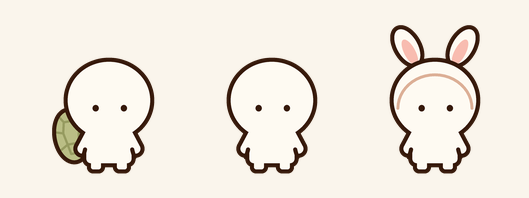
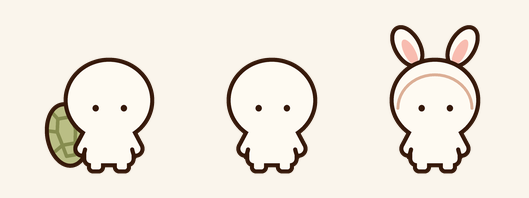
亀モードの甲羅を「甲羅大きめ＋模様強調」にする（2026-10-17 ユーザー決定。spec §88.4）
比較画像「亀モード 甲羅比較案」の右端で正式決定（画像は docs/design-reference/characters/official-3modes/ に保存）。甲羅は原画の「立つ」の縦横比と傾きを保って約 1.18 倍（23.5×38 → 27.6×44.7、中心 13.0,66.8）にし、左の脇から見える位置のまま左へ広げた。模様の線を輪郭の 0.55 倍 → 0.85 倍に太くし、色を #969B60 → #868C4F に濃くした（塗りはそのまま）。36pt で左へ約 6.3pt はみ出し、高さ約 19pt（どれも仮の値。最終は実機）。
テスト・比較画像の道具と比較画像・spec・記録・design-notes・参考画像の説明を合わせた。ビルドはまだ。

Changed region(s): [[0.0605, 0.5152, 0.1512, 0.8485]]

diff --git a/TimyCueTests/CharacterModeTests.swift b/TimyCueTests/CharacterModeTests.swift
@@ -72,10 +72,13 @@ final class CharacterModeTests: XCTestCase {
         XCTAssertLessThan(shellBounds.minX, pose.bounds.minX, "甲羅は本体の左の外へはみ出す")
         XCTAssertLessThan(shellBounds.maxX, pose.head.center.x, "甲羅は本体の右へは出ない")
         XCTAssertLessThan(shell.shape.rotation, 0, "上が少し外（左）へ傾く")
-        // 形・大きさ・傾きの大きさは原画の「立つ」を測った値のまま（側だけを、本体の中心で左右に入れ替えた）
-        XCTAssertEqual(shell.shape.size, CGSize(width: 23.5, height: 38))
-        XCTAssertEqual(abs(shell.shape.rotation), 10, accuracy: 0.001)
-        XCTAssertEqual(shell.shape.center.x + 74.0, pose.head.center.x * 2, accuracy: 0.001, "「立つ」の位置（x = 74.0）の左右反転")
+        // 「甲羅大きめ＋模様強調」（2026-10-17 正式決定）：原画の「立つ」を測った形（23.5×38・傾き 10°）の縦横比と傾きを保って大きくする
+        let measured = CGSize(width: 23.5, height: 38)
+        XCTAssertEqual(shell.shape.size.width / shell.shape.size.height, measured.width / measured.height, accuracy: 0.01,
+                       "甲羅の形（縦横比）は原画のまま")
+        XCTAssertEqual(abs(shell.shape.rotation), 10, accuracy: 0.001, "傾きの大きさは原画のまま")
+        XCTAssertGreaterThan(shell.shape.size.height, measured.height * 1.1, "原画の「立つ」より大きめ")
+        XCTAssertGreaterThan(CharacterMetrics.shellPatternRatio, 0.55, "模様の線は原画より太い（模様強調）")
         XCTAssertGreaterThan(shellBounds.minY, pose.bounds.minY, "甲羅は頭のてっぺんより下")
         XCTAssertLessThanOrEqual(shellBounds.maxY, pose.bounds.maxY, "甲羅は足元より下へ出ない")
         // 模様の線は甲羅の中（甲羅の外へは描かない。描くときも甲羅の形で切る）
@@ -92,12 +95,14 @@ final class CharacterModeTests: XCTestCase {
             XCTAssertEqual(mode.gear.contains(.shell), mode == .turtle, "甲羅は亀モードだけ（\(mode.title)）")
         }
         XCTAssertTrue(OfficialCharacter.gear.bounds(for: CharacterMode.human.gear).isNull, "人型モードは装備の領域なし")
-        // 36pt（Home の第一の候補）でも甲羅の形が分かる大きさ（はみ出す幅 約 3.9pt・甲羅の高さ 約 16pt。目安は仮）
+        // 36pt（Home の第一の候補）でも亀に見える大きさ（「甲羅大きめ＋模様強調」。はみ出す幅 約 6.3pt・甲羅の高さ 約 19pt。目安は仮）
         let pose = CharacterPose.officialStanding
         let scale = 36 / OfficialCharacter.referenceHeight
         let shellBounds = CharacterPose.ellipseBounds(OfficialCharacter.gear.shell.shape)
-        XCTAssertGreaterThanOrEqual((pose.bounds.minX - shellBounds.minX) * scale, 3, "本体の外へはみ出す幅")
-        XCTAssertGreaterThanOrEqual(OfficialCharacter.gear.shell.shape.size.height * scale, 15, "甲羅の高さ")
+        XCTAssertGreaterThanOrEqual((pose.bounds.minX - shellBounds.minX) * scale, 5, "本体の外へはみ出す幅")
+        XCTAssertGreaterThanOrEqual(OfficialCharacter.gear.shell.shape.size.height * scale, 18, "甲羅の高さ")
+        XCTAssertGreaterThanOrEqual(CharacterLayout(height: 36, mode: .turtle).outlineWidth * CharacterMetrics.shellPatternRatio, 1,
+                                    "模様の線は 36pt でも 1pt 以上")
     }
 
     func testRabbitHoodEarsStandAboveTheHead() {

diff --git a/TimyCue/Features/Character/CharacterPose+Official.swift b/TimyCue/Features/Character/CharacterPose+Official.swift
@@ -36,12 +36,14 @@ extension CharacterPose {
 
 extension CharacterGearSet {
     /// 正式キャラクター 3 モードの装備。原画の亀「立つ」・うさぎ（3 モードの見出しの絵と「立つ」）を測り、本体の頭に合わせて置いた値。
-    /// 甲羅の形・大きさ・傾きの大きさは「立つ」を測った値のまま。側だけは、主な絵・モード切り替えの絵・Home の絵に合わせて
-    /// 見る人から見て左（「立つ」は右に描かれているので、本体の中心 x = 45.25 で左右を入れ替えた。2026-10-17。spec §88.4）
+    /// 甲羅の側は、主な絵・モード切り替えの絵・Home の絵に合わせて見る人から見て左（「立つ」は右に描かれている。2026-10-17。spec §88.4）。
+    /// 大きさは「甲羅大きめ＋模様強調」（2026-10-17 正式決定。docs/design-reference/characters/official-3modes/shell-comparison-2026-10-17.webp）：
+    /// 「立つ」を測った形（23.5×38・傾き 10°）の縦横比と傾きを保って約 1.18 倍にし、比較画像の「現状」→「大きめ＋模様強調」と
+    /// 同じだけ、左へ（約 6 単位）・上へ（約 4 単位）・下へ（約 2.6 単位）広げた。本体の後ろにつながったまま
     static let official = CharacterGearSet(
         // 甲羅：背中に背負い、見る人から見て左の脇からはみ出す。上が少し外（左）へ傾いた楕円（右の部分は本体に隠れる）
         shell: ShellGear(
-            shape: CharacterPose.Part(center: CGPoint(x: 16.5, y: 67.5), size: CGSize(width: 23.5, height: 38), rotation: -10),
+            shape: CharacterPose.Part(center: CGPoint(x: 13.0, y: 66.8), size: CGSize(width: 27.6, height: 44.7), rotation: -10),
             pattern: [
                 // 真ん中の甲板（六角形）
                 [CGPoint(x: -0.18, y: -0.30), CGPoint(x: 0.18, y: -0.30), CGPoint(x: 0.26, y: -0.08), CGPoint(x: 0.18, y: 0.16),

diff --git a/TimyCue/DesignSystem/CharacterMetrics.swift b/TimyCue/DesignSystem/CharacterMetrics.swift
@@ -20,8 +20,9 @@ enum CharacterMetrics {
         min(max(height * ratio, outlineMin), outlineMax)
     }
 
-    /// 甲羅の模様の線・フードの顔まわりの線の太さ（輪郭の太さに対する割合。原画を測った値）
-    static let shellPatternRatio: CGFloat = 0.55
+    /// 甲羅の模様の線・フードの顔まわりの線の太さ（輪郭の太さに対する割合。フードは原画を測った値）。
+    /// 甲羅の模様は「甲羅大きめ＋模様強調」（2026-10-17 正式決定）で、原画の 0.55 から太くした（36pt で約 1.2pt。仮の値）
+    static let shellPatternRatio: CGFloat = 0.85
     static let hoodLineRatio: CGFloat = 0.7
 }
 
@@ -40,7 +41,7 @@ struct CharacterPalette: Equatable {
 
 /// 装備の色（正式キャラクター 3 モードの原画を測った値。spec §88.4）
 struct CharacterGearPalette: Equatable {
-    /// 甲羅：やわらかい黄緑と、甲板の境目の少し濃い緑
+    /// 甲羅：やわらかい黄緑と、甲板の境目の濃い緑（境目は「模様強調」で原画の #969B60 より濃くした。2026-10-17。仮の値）
     var shellFill: Color
     var shellLine: Color
     /// うさぎの耳の内側のピンク
@@ -48,6 +49,6 @@ struct CharacterGearPalette: Equatable {
     /// フードの顔まわりの線（輪郭より淡いブラウン）
     var hoodLine: Color
 
-    static let official = CharacterGearPalette(shellFill: Color(hex: 0xBABE85), shellLine: Color(hex: 0x969B60),
+    static let official = CharacterGearPalette(shellFill: Color(hex: 0xBABE85), shellLine: Color(hex: 0x868C4F),
                                                earInner: Color(hex: 0xF8BCB0), hoodLine: Color(hex: 0xDCAF96))
 }

diff --git a/TimyCue/Features/DevTools/CharacterModeComparisonView.swift b/TimyCue/Features/DevTools/CharacterModeComparisonView.swift
@@ -39,7 +39,7 @@ final class CharacterModeComparisonStore {
         return store
     }
 
-    /// 「本体 36pt・甲羅を含めた領域 幅34×高さ39pt（輪郭の線を含む）」の文
+    /// 「本体 36pt・甲羅を含めた領域 幅37×高さ39pt（輪郭の線を含む）」の文
     static func areaText(height: CGFloat, mode: CharacterMode) -> String {
         let layout = CharacterLayout(height: height, mode: mode)
         let width = Int(layout.size.width.rounded())

diff --git a/tools/character_3modes/shapes.py b/tools/character_3modes/shapes.py
@@ -74,9 +74,10 @@ EYES = [(35.0, 46.1), (56.8, 46.1)]
 EYE_SIZE = (4.9, 5.1)
 ARM_LINES = [((26.8, 78.0), (26.1, 81.0), (25.0, 84.0)), ((63.2, 78.0), (63.9, 81.0), (65.0, 84.0))]
 OUTLINE_RATIO = 0.0385       # 本体の全身の高さに対する輪郭の太さ
-# 甲羅は見る人から見て左（2026-10-16 決定・2026-10-17 確認。spec §88.4）。形・大きさは原画の亀「立つ」を測った値で、
-# 「立つ」は右に描かれているので、本体の中心 x = 45.25 で左右を入れ替えた（「立つ」の位置は cx=74.0・rot=10）
-SHELL = dict(cx=16.5, cy=67.5, w=23.5, h=38, rot=-10)
+# 甲羅は見る人から見て左（2026-10-16 決定・2026-10-17 確認。spec §88.4）。大きさは「甲羅大きめ＋模様強調」（2026-10-17 正式決定）：
+# 原画の亀「立つ」を測った形（23.5×38・傾き 10°。「立つ」では右の cx=74.0）の縦横比と傾きを保って約 1.18 倍にし、左へ広げた
+SHELL = dict(cx=13.0, cy=66.8, w=27.6, h=44.7, rot=-10)
+SHELL_PATTERN_RATIO = 0.85   # 模様の線の太さ（輪郭に対する割合。原画は 0.55。模様強調で太くした）
 SHELL_PATTERN = [
     [(-0.18, -0.30), (0.18, -0.30), (0.26, -0.08), (0.18, 0.16), (-0.18, 0.16), (-0.26, -0.08), (-0.18, -0.30)],
     [(-0.18, 0.16), (-0.12, 0.36), (0.12, 0.36), (0.18, 0.16)],
@@ -91,7 +92,7 @@ FACE_OPENING = dict(cx=45.25, cy=46.2, w=57.2, h=51.8)
 OUTLINE = (0x36, 0x19, 0x0A)
 FILL = (0xFE, 0xFA, 0xF2)
 SHELL_FILL = (0xBA, 0xBE, 0x85)
-SHELL_LINE = (0x96, 0x9B, 0x60)
+SHELL_LINE = (0x86, 0x8C, 0x4F)   # 模様強調で原画の #969B60 より濃くした
 EAR_INNER = (0xF8, 0xBC, 0xB0)
 HOOD_LINE = (0xDC, 0xAF, 0x96)
 MODE_GEAR = {"turtle": {"shell"}, "human": set(), "rabbit": {"hood"}}
@@ -149,7 +150,7 @@ def render(mode, box=(0, -22, 95, 100), px_per_unit=2.0, S=8):
         sm = ellipse(X, Y, SHELL["cx"], SHELL["cy"], SHELL["w"], SHELL["h"], SHELL["rot"])
         outlined(sm, SHELL_FILL)
         for line in _shell_lines():
-            paint(_segments(X, Y, line, ow * 0.55) & sm, SHELL_LINE)
+            paint(_segments(X, Y, line, ow * SHELL_PATTERN_RATIO) & sm, SHELL_LINE)
     if "hood" in gear:
         for e, i in zip(EARS, EAR_INNERS):
             outlined(ellipse(X, Y, e["cx"], e["cy"], e["w"], e["h"], e["rot"]))

diff --git a/docs/design-notes.md b/docs/design-notes.md
@@ -98,10 +98,11 @@
 | 2026-10-16 | ホーム・人型キャラクター（3 モードの状態の設計。Q89・Q90） | 見た目のモードと、時間帯ごとの動作・移動の状態を分ける | 見た目（第一の候補）：出発 61 分以上前＝亀、60〜31 分前＝人型、30 分前〜出発時刻＝うさぎ（耳の被り物は必ず）。動作（§88.7。原則このまま）：60〜31 分＝落ち着いた日常の動作、30〜16 分＝準備を始める、15〜6 分＝出発準備、5〜1 分＝少し機敏に（うさぎになっただけで強く焦らせない）。ふつうと違う状態：場所なしの予定は開始までの時間で切り替え、出発時刻を過ぎて案内が続く間はうさぎのまま、移動開始を確かめたら人型に戻し、移動中は人型＋移動手段の動作、到着のあとは人型＋待つ動作、予定がないときは亀。移動中・到着のあとの動きは H5。見た目・行動・移動の状態は分けて持つ（spec §88.4・§88.7） | 実機で | 文書に入れた（H3・H5 の実装はまだ） |
 | 2026-10-16 | ホーム（H2 の画面見本。実装前の整合性確認） | 6 つの状態のワイヤーフレーム（docs/design-reference/h2-wireframes/） | Home だけ標準のステータスバーなし。Safe Area の上 59pt・Dynamic Island に重ねない。1 行目：左に日付（20pt）、右に電池（アイコン 22×11pt＋「80%」。仮）。時計：外径 40％（画面の幅 393pt で 157pt）、右の余白 30pt、上端 104pt、中の数字 27pt（外径の 17％）、「出発まで」「分」11pt、下に「8:30 → 9:15 出発予定」13pt。人型：本体 36pt、「いま」の直上（足元と「いま」の行のあいだ約 11pt）。過ぎた出発の点は 1 行（13pt）を人型と「いま」のあいだに。予定の行の間：ふだん 44pt、予定が多いとき 34pt。主状態の予定は 2 行の札（高さ 56pt）。「ほか○件」15pt。大きな知らせ 22pt（時計がないときは日付の下に横幅を使って。時計があるときは時計の下側。Q92 で決定）。「終わった予定 ○件」13pt（日付・終日の予定の下、人型より上の左側。Q91 で決定）。大きさ・行の間などの値は仮 | 実機で | 見本を作った（H2 の実装はまだ） |
 | 2026-10-16 | ホーム（H2 の前提作業。Q93・Q94） | 3 モードの止まった姿の再現と、今の時計の実機確認 | 前提作業 1：正式原画の亀・人型・うさぎを止まった姿で SwiftUI に再現し、実機で原画と見比べる（本体 36pt、甲羅・耳の領域も確かめる）。H2 の本実装とは分けて進み具合を管理。前提作業 2（Q94）：今の Home の時計を実機で確かめる。1 分ごとの穏やかな動き（0.45 秒）、針と弧の進み方、60 分前に出る、出発時刻で終わり「出発してください」→ 3 分で「出発時刻を○分過ぎています」、場所なしの「開始まで」と「予定時刻になりました」（約 3 分）、「いま」の文字が 5 分以内・55〜60 分で消える／60 分前の丸のずらし、弧の色が緑 → 黄 → コーラル、40％の中の文字（4 つの表示） | 実機で | これから（Q94 はまだ区切らない） |
-| 2026-10-16 | ホーム（H2 の前提作業 1）・正式キャラクター 3 モード | 立ち姿の再現（`CharacterPose+Official.swift`・`CharacterGear.swift`）。設定 ＞ 開発用：キャラクター 3 モード | 原画の人型「立つ」（`official-3modes/reproduction/stand-human.png`、原画の画素のまま）の輪郭の内側の形に、頭・胴・腕・脚を当てはめた（重なり 約 97％、`tools/character_3modes/fit_body.py`）。単位は切り出しの画素：頭 63.7×59.6（胴とひと続き）、胴 34.9×34.5（足の付け根まで）、腕 7.7×19.7（約 28° 外へ）、脚 7.8×11.8（まっすぐ・足の裏は平ら、あいだに浅い四角い切れ込み）、目 4.9×5.1、腕の内側に短い線。本体の全身の高さ 83.2 → 36pt。輪郭は本体の高さの 3.85％（36pt で約 1.4pt）。色（仮。原画を測った値）：体 #FEFAF2・輪郭と目 #36190A・甲羅 #BABE85／模様 #969B60・耳の内側 #F8BCB0・顔まわりの線 #DCAF96。甲羅（背中に背負い、見る人から見て左の脇からはみ出す。23.5×38・上が外（左）へ 10° 傾き。2026-10-17 に「立つ」の右の位置を本体の中心で左右に入れ替えた。TestFlight 1.0 (24) までは右）と耳の被り物（耳 15.8×29.5・外へ 30°、内側のピンク、顔まわりの線＝額から目の高さまでの弧）は本体とは別の部品。36pt での領域（輪郭の線を含む）：人型 約 30×39pt、亀 約 34×39pt（甲羅で左へ広がる。本体は甲羅の分 約 3.9pt 右）、うさぎ 約 30×50pt（耳で上へ） | 実機で | 対応中（実機確認待ち） |
-| 2026-10-16 | ホーム（H2 の前提作業 1）・原画と違うところ（残る差異） | 再現は前向きの立ち姿 1 つ。原画の「立つ」と違う点 | 亀：原画は顔が少し左を向く（目が左寄り）が、同じ本体を使うので前向き。甲羅の側は、原画の「立つ」（右）と違い、正式の左（2026-10-16 決定・2026-10-17 に直した）。甲羅の下の小さな尾と、甲板の細かな模様は省いた（36pt では約 1pt 以下）。うさぎ：原画の「立つ」は片足を前に出した歩く途中の形だが、立ち姿は人型と同じ本体。耳の位置・傾きは見出しの絵と「立つ」の間をとった。顔まわりの線は滑らかな弧にした（原画は手描きの揺れがある）。全体：原画の手描きの線の揺れ・ぼかし・足元の影は再現しない（影は §88.4 で描かない） | 実機で | 未着手 |
+| 2026-10-16 | ホーム（H2 の前提作業 1）・正式キャラクター 3 モード | 立ち姿の再現（`CharacterPose+Official.swift`・`CharacterGear.swift`）。設定 ＞ 開発用：キャラクター 3 モード | 原画の人型「立つ」（`official-3modes/reproduction/stand-human.png`、原画の画素のまま）の輪郭の内側の形に、頭・胴・腕・脚を当てはめた（重なり 約 97％、`tools/character_3modes/fit_body.py`）。単位は切り出しの画素：頭 63.7×59.6（胴とひと続き）、胴 34.9×34.5（足の付け根まで）、腕 7.7×19.7（約 28° 外へ）、脚 7.8×11.8（まっすぐ・足の裏は平ら、あいだに浅い四角い切れ込み）、目 4.9×5.1、腕の内側に短い線。本体の全身の高さ 83.2 → 36pt。輪郭は本体の高さの 3.85％（36pt で約 1.4pt）。色（仮。原画を測った値）：体 #FEFAF2・輪郭と目 #36190A・甲羅 #BABE85／模様 #969B60・耳の内側 #F8BCB0・顔まわりの線 #DCAF96。甲羅（背中に背負い、見る人から見て左の脇からはみ出す。23.5×38・上が外（左）へ 10° 傾き。2026-10-17 に「大きめ＋模様強調」で 27.6×44.7 へ（下の行）。2026-10-17 に「立つ」の右の位置を本体の中心で左右に入れ替えた。TestFlight 1.0 (24) までは右）と耳の被り物（耳 15.8×29.5・外へ 30°、内側のピンク、顔まわりの線＝額から目の高さまでの弧）は本体とは別の部品。36pt での領域（輪郭の線を含む）：人型 約 30×39pt、亀 約 34×39pt（甲羅で左へ広がる。本体は甲羅の分 約 3.9pt 右）、うさぎ 約 30×50pt（耳で上へ） | 実機で | 対応中（実機確認待ち） |
+| 2026-10-16 | ホーム（H2 の前提作業 1）・原画と違うところ（残る差異） | 再現は前向きの立ち姿 1 つ。原画の「立つ」と違う点 | 亀：原画は顔が少し左を向く（目が左寄り）が、同じ本体を使うので前向き。甲羅の側は、原画の「立つ」（右）と違い、正式の左（2026-10-16 決定・2026-10-17 に直した）。甲羅は原画の「立つ」より約 1.18 倍大きく、模様の線を太く・濃くした（2026-10-17「甲羅大きめ＋模様強調」）。甲羅の下の小さな尾と、甲板の細かな模様は省いた（36pt では約 1pt 以下）。うさぎ：原画の「立つ」は片足を前に出した歩く途中の形だが、立ち姿は人型と同じ本体。耳の位置・傾きは見出しの絵と「立つ」の間をとった。顔まわりの線は滑らかな弧にした（原画は手描きの揺れがある）。全体：原画の手描きの線の揺れ・ぼかし・足元の影は再現しない（影は §88.4 で描かない） | 実機で | 未着手 |
 | 2026-10-16 | ホーム（H2 の前提作業 2）・時計の確かめ | 設定 ＞ 開発用：時計の確かめ（検証用のビルドだけ） | 見本の予定（場所あり：出発 10:00・開始 10:30、場所なし：開始 10:00。どちらも仮）で、表示の時刻を −90〜＋40 分の範囲で動かす（±1・±5 分、自動は 1 秒で 1 分）。時計の大きさは 40％（H2 の第一の候補。中の文字を外径に合わせる）と 74％（今の Home）を切り替えられる。すぐに飛べる時刻（61・60・55・54・31・30・23・15・6・5・1 分前、出発時刻、2・3 分過ぎ、場所なしの 61・23 分前・開始時刻・3 分後）と、中央の文字の 4 種類 | 実機で | 対応中（実機確認待ち） |
-| 2026-10-16 | ホーム（H2 の前提作業 1）・亀モードの甲羅の位置 | 甲羅をどちらの脇に見せるか（spec §88.4） | 正式は見る人から見て左（2026-10-16 決定）。甲羅は背中に背負っている設定で、正面から見ると左側にはみ出す構造（左の脇から見える。2026-10-17 確認）。立つ・座る・歩くなど同じ向きの姿勢では同じ位置。横向き・後ろ向きは体の向きに合わせて自然に。原画の主なポーズの段の「立つ」（右）は例外で、主な絵・モード切り替えの絵・Home の絵を優先。原画でほかに右に描かれた正面向きの姿（主なポーズの「コーヒーを飲む」、表情・仕草の「眠そう」「くつろぐ」）も左に統一（2026-10-17 確認。整合性のため正式仕様では左を優先）。TestFlight 1.0 (24) は右に置いていた。2026-10-17 に左へ直した（形・大きさ・色・傾きの大きさはそのまま。36pt で左へ約 3.9pt はみ出し、高さ約 16pt。この大きさは仮の値で、最終の判断は実機で行う（2026-10-17 ユーザー）。自動テストの目安「はみ出し 3pt 以上・高さ 15pt 以上」も仮） | 実機で | 直した（ビルド確認 #49・TestFlight 1.0 (25)。実機確認待ち） |
+| 2026-10-16 | ホーム（H2 の前提作業 1）・亀モードの甲羅の位置 | 甲羅をどちらの脇に見せるか（spec §88.4） | 正式は見る人から見て左（2026-10-16 決定）。甲羅は背中に背負っている設定で、正面から見ると左側にはみ出す構造（左の脇から見える。2026-10-17 確認）。立つ・座る・歩くなど同じ向きの姿勢では同じ位置。横向き・後ろ向きは体の向きに合わせて自然に。原画の主なポーズの段の「立つ」（右）は例外で、主な絵・モード切り替えの絵・Home の絵を優先。原画でほかに右に描かれた正面向きの姿（主なポーズの「コーヒーを飲む」、表情・仕草の「眠そう」「くつろぐ」）も左に統一（2026-10-17 確認。整合性のため正式仕様では左を優先）。TestFlight 1.0 (24) は右に置いていた。2026-10-17 に左へ直した（形・大きさ・色・傾きの大きさはそのまま。36pt で左へ約 3.9pt はみ出し、高さ約 16pt。この大きさは仮の値で、最終の判断は実機で行う（2026-10-17 ユーザー）。自動テストの目安「はみ出し 3pt 以上・高さ 15pt 以上」も仮。大きさと模様は同じ日に「甲羅大きめ＋模様強調」へ変えた：下の行） | 実機で | 直した（ビルド確認 #49・TestFlight 1.0 (25)。実機確認待ち） |
+| 2026-10-17 | ホーム（H2 の前提作業 1）・亀モードの甲羅の大きさと模様 | 「甲羅大きめ＋模様強調」（比較画像 `official-3modes/shell-comparison-2026-10-17.webp` の右端。spec §88.4） | 甲羅：27.6×44.7（原画の「立つ」の 23.5×38 の縦横比と傾き 10° を保って約 1.18 倍）、中心 (13.0, 66.8)、上が外（左）へ 10° 傾き。比較画像の「現状」→「大きめ＋模様強調」の増え方（左へ約 6・上へ約 4・下へ約 2.6 単位）を 1.0 (25) の甲羅に足した。模様の線：輪郭の 0.85 倍（原画 0.55）、色 #868C4F（原画 #969B60）。塗り #BABE85 はそのまま。36pt：左へ約 6.3pt はみ出し、甲羅の高さ約 19pt、模様の線 約 1.2pt、甲羅を含めた枠 約 37×39pt。比較画像の右端の絵そのものと比べると、甲羅は少し大きい（36pt のはみ出しは絵で約 4.5〜5pt）。どれも仮の値で、最終の判断は実機 | 実機で | 作った（ビルドはまだ） |
 
 ## 将来候補／現在は不採用
 

diff --git a/docs/spec.md b/docs/spec.md
@@ -1254,6 +1254,7 @@ EventKit イベントそのものに、TimyCue 固有情報を無理に全部入
 - デザイン（2026-10-16 確定）：「TimyCue キャラクター 3 モード（うさぎは被り物バージョン）」の原画を、正式なデザインの正本にする（記録の 2026-10-16「新しい正式キャラクター（3 モード）の原画」）。原画は docs/design-reference/characters/official-3modes/ に置いた（受け取った画像そのものと、亀・人型・うさぎの切り出し、各モードの主なポーズの段の切り出し。中身の説明は docs/design-reference/README.md）。これ以上、別のデザインの候補は作らない。この原画を基準に SwiftUI で再現する（H2 の前提作業として、亀・人型・うさぎの止まった姿から。2026-10-16 Q93。§88.10）。
   - 亀モード・人型モード・うさぎモードは、すべて同じキャラクター。甲羅（亀モード）と、うさぎの耳の被り物（フード。うさぎモード）は、着けたり外したりする装備。
   - 甲羅の位置（2026-10-16 決定、2026-10-17 確認）：甲羅は背中に背負っていて、正面から見ると見る人から見て左側にはみ出す構造にする。正面向きの亀モードでは、甲羅を左（左の脇から見える位置）に統一する。立つ・座る・歩くなど、同じ向きの姿勢では同じ位置にする。原画の中の一部に右側の例（主なポーズの段の「立つ」「コーヒーを飲む」、表情・仕草の段の「眠そう」「くつろぐ」）があるが、整合性のため正式仕様では左を優先する（主な絵・モード切り替えの絵・Home の絵と同じ側）。横向き・後ろ向きなどは、体の向きに合わせて自然に置く。
+  - 甲羅の大きさと模様（2026-10-17 決定）：比較画像「亀モード 甲羅比較案（36pt でも亀に見えるかを比較）」の右端「甲羅大きめ＋模様強調」を正式に採用する（docs/design-reference/characters/official-3modes/shell-comparison-2026-10-17.webp）。36pt でも亀に見えるよう、甲羅を前の再現より大きめにし、甲板の模様（境目の線）を太く・濃くして目立たせる。甲羅は背中に背負い、正面向きでは左の脇から見える（上の決まりのまま）。甲羅の形（縦横比・傾き）と塗りの色は原画のまま。大きさ・線の太さ・色の値は実機で確かめる（design-notes）。
   - うさぎモードの間は、被り物の耳を必ず付ける。原画には耳が付いていない姿（急ぎ足・バッグを持つ・走る）もあるが、耳は被り物の一部という設定なので外さない（2026-10-16）。
   - 形・色・比率は原画に合わせる。立つ・座る・コーヒーを飲むなどの姿も、この原画を基準にする。独自のアレンジや、Claude が作った A・B・C 案への置き換えはしない。
   - 画像の中の吹き出し・背景・床の影・音符・動きを表す記号は、キャラクター本体に要るものではない。
@@ -1330,6 +1331,7 @@ EventKit イベントそのものに、TimyCue 固有情報を無理に全部入
 - H2 の前提作業（2026-10-16 Q93）：正式原画（2026-10-16 正式採用の 3 モード）の亀・人型・うさぎを、止まった姿で SwiftUI に再現し、実機で確かめる。H2 の本実装とは分けて進み具合を管理する。H2 の前に、今の時計の実機確認も区切る（Q94）。
   - 2026-10-16 開始の指示（記録の同じ日「H2 の前提作業の開始」）：前提作業 1（3 モードの立ち姿の再現と、開発用の比べる画面「設定 ＞ 開発用：キャラクター 3 モード」）と、前提作業 2（時計の検証画面「設定 ＞ 開発用：時計の確かめ」。表示の時刻を手で進める。検証用のビルドだけ）を、同じ検証用のビルドにまとめて作る。順番は、実装 → 自動テスト → ビルドの確認 → 検証用の TestFlight → ユーザーの実機確認 → 結果に応じた修正と再確認 → H2 の本実装へ移るかの判断。ユーザーの実機確認が終わるまで、デザインの再現は完了と扱わない。H2 の本実装（Home の作り直し）・H3〜H5・App Store の公開・新しいデザインの案は、この作業の外。
   - 甲羅の位置（2026-10-16 決定。§88.4）：TestFlight 1.0 (24) の亀モードは、甲羅を見る人から見て右に置いていた（原画の「立つ」に合わせていた）。正式は左なので、2026-10-17 に直した（記録の 2026-10-17「亀モードの甲羅位置修正・実機確認」）。甲羅を本体の中心で左右に入れ替え、形・大きさ・色・傾きの大きさは変えていない。ビルド確認 #49（自動テスト 301 件すべて成功）のあと、検証用の TestFlight 1.0 (25) に配信した。実機確認はこれから。
+  - 甲羅の大きさと模様（2026-10-17 決定。§88.4）：「甲羅大きめ＋模様強調」に合わせて、コードとテストを直した（記録の 2026-10-17「亀モードの甲羅：大きめ＋模様強調」）。ビルドと実機確認はまだ。
 - H2 Home の骨格：縦のタイムライン・演出帯・現在時刻・今日の予定・次の行動の強調・時計との共存。Home の画面全体は縦にスクロールさせない（§88.2）。配置は 2026-10-16 の最新版（§88.2・§88.3）：左上に日付、右上寄りに時計（外径 40％が第一の候補）、左側の「いま」のすぐ上に人型（36pt が第一の候補）。日付・時計・人型の部分の無駄な余白を減らし、タイムラインの縦の間隔を H1 の比べる画面より広くする。タイムラインの行の動き（§88.2）も H2 で作る。Home だけ標準のステータスバーを出さず、右上にアプリ独自の電池の残量の表示（§88.2）。時計の出現のアニメーションは作らない（H3。Q88）。人型は、前提作業で再現した 3 モードの止まった姿を、時刻に応じて切り替えて出す（Q89・Q90・Q93。切り替えの演出は H3）。今の時計を動かす・小さくする・置き直す前に、今の時計の実機確認を区切る（2026-10-15 の時点では完了扱いにしない。条件付きで区切る：Q94）。Home の背景 #FAF5EC → #FFFBF3 は、時計の確認のあと実機で比べてから変える（H2 の始まりで無条件に変えない）。過ぎた出発の点を残す・畳む状態の移り変わり（§88.2）を自動テストにする。
   - H2 の実機確認で見ること（2026-10-16）：時計と人型のバランス、日付・時計・人型の配置、時計を出したとき・出さないときの予定の見える量、主状態の予定の見やすさ、出発の点と予定開始の点の関係、予定が少ないときの行の間、予定が多いときの「ほか○件」、小さい画面や文字を大きくしたときの表示、画面全体が縦にスクロールしないこと、状態が切り替わるときに予定が不自然に動かないこと。時計の中の文字（「出発まで 60分」「出発まで 23分」「出発まで 1分」「開始まで 23分」。§88.3）も確かめる。
 - H3 動き：日常の動作 3 種・時計の出現 2 種・10 秒の演出とランダムの選び方。3 モードの装備の着け外しの演出（甲羅を外す・フードをかぶる）と、時間帯ごとの動作（§88.7）を、見た目とは分けた状態として作る（2026-10-16 Q89・Q90・Q93。止まった姿での見た目の切り替えは H2）。
@@ -1360,6 +1362,14 @@ EventKit イベントそのものに、TimyCue 固有情報を無理に全部入
 - 2026-10-16 の回答：保留。天気の表示は H2 の作業の外。置き場所は今は決めず、天気の機能を作る前に考える。
 
 ## 決まったことの記録
+
+### 2026-10-17 ユーザー決定「亀モードの甲羅：大きめ＋模様強調」（§88.4・§88.10 に関係）
+
+- 比較画像「亀モード 甲羅比較案（36pt でも亀に見えるかを比較）」の 3 案（現状／甲羅少し大きめ／甲羅大きめ＋模様強調）から、右端の「甲羅大きめ＋模様強調」で正式に決定した。比較画像は docs/design-reference/characters/official-3modes/shell-comparison-2026-10-17.webp に保存した。
+- 甲羅の位置（見る人から見て左。背中に背負い、左の脇から見える）と、正面向きの姿勢で同じ基準にそろえる決まりは変えない。
+- 作りへの反映（Claude）：比較画像の「現状」と「大きめ＋模様強調」の差（本体に合わせて測ると、甲羅が左へ約 6 単位・上へ約 4 単位・下へ約 2.6 単位広がる）を、TestFlight 1.0 (25) の甲羅に足した。原画の「立つ」を測った形（23.5×38・傾き 10°）の縦横比と傾きを保って約 1.18 倍（27.6×44.7）にし、本体の後ろにつながったまま左へ広げた。模様の線は輪郭の 0.55 倍から 0.85 倍に太くし（36pt で約 0.76pt → 約 1.2pt）、色を #969B60 から #868C4F に濃くした。甲羅の塗りの色は変えない。36pt では、甲羅が本体の左の外へ約 6.3pt はみ出し（前は約 3.9pt）、高さは約 19pt（前は約 16pt）。甲羅を含めた枠は約 37×39pt（前は約 34×39pt）。自動テストを合わせた。比較画像（reproduction/）を作り直した。
+- 仮に置いた点：大きくする量（約 1.18 倍・左へ約 6.3pt）、模様の線の太さ（0.85 倍）と色（#868C4F）は、比較画像から読み取った仮の値。比較画像の「現状」は TestFlight 1.0 (25) の甲羅より小さく描かれているので、比較画像の甲羅をそのまま写すのではなく、「現状」からの増え方を 1.0 (25) に足した。そのため、右端の絵そのものと比べると甲羅は少し大きい（36pt のはみ出しは、絵で約 4.5〜5pt、今回は約 6.3pt）。最終の判断は実機で行う。
+- ビルドは、指示があってから。
 
 ### 2026-10-17 ユーザー指示「亀モードの甲羅位置修正・実機確認」（§88.4・§88.10 に関係）
 

diff --git a/docs/design-reference/README.md b/docs/design-reference/README.md
@@ -19,6 +19,7 @@
 | turtle-mode.png | 亀モードのキャラクター（甲羅・コーヒー）の切り出し（161×180 画素） |
 | human-mode.png | 人型モードのキャラクター（スマホ）の切り出し（145×171 画素） |
 | rabbit-mode.png | うさぎモードのキャラクター（耳の被り物・バッグ）の切り出し（147×190 画素） |
+| shell-comparison-2026-10-17.webp | 亀モードの甲羅の比較案（現状／甲羅少し大きめ／甲羅大きめ＋模様強調。36pt でも亀に見えるか）。右端の「甲羅大きめ＋模様強調」で正式決定（2026-10-17。spec §88.4） |
 | turtle-mode-poses.png・human-mode-poses.png・rabbit-mode-poses.png | 各モードの「主なポーズ・動作例」の段（ラベルつき） |
 
 - 切り出しは原画の画素をそのまま四角く切り取っただけで、形・色・比率は変えていない（縮めたり色を変えたりしていない）。吹き出し・音符・動きの記号が入らない範囲で切ったので、まわりにパネルの淡い背景と足元の影が少し残っている。
@@ -50,7 +51,7 @@
 - 作り直し：`python tools/character_3modes/make_comparison.py docs/design-reference/characters/official-3modes`（本体の値の当てはめは `fit_body.py`）。値は `TimyCue/Features/Character/CharacterPose+Official.swift` と同じ。
 - 実機（アプリ）での見え方は、検証用のビルドの「設定 ＞ 開発用：キャラクター 3 モード」と、Codemagic の画面写真（modes-*.png）で確かめる。原画はアプリに入れない。
 - 残る差異は docs/design-notes.md（2026-10-16「原画と違うところ」）。
-- 甲羅は正式に見る人から見て左（2026-10-16 決定・2026-10-17 確認）。2026-10-17 に再現を左へ直し、comparison.png・reproduction-36pt.png を作り直した。comparison.png の亀の原画の列は、甲羅の側をそろえるために「立つ」を左右反転して並べている（原画の顔の向きも反転して見える）。TestFlight 1.0 (24) までの再現は右だった。stand-turtle.png は甲羅の大きさ・高さの基準にはなるが、側の基準にはしない（側は主な絵・モード切り替えの絵・Home の絵）。
+- 甲羅は正式に見る人から見て左（2026-10-16 決定・2026-10-17 確認）。2026-10-17 に再現を左へ直し、comparison.png・reproduction-36pt.png を作り直した。comparison.png の亀の原画の列は、甲羅の側をそろえるために「立つ」を左右反転して並べている（原画の顔の向きも反転して見える）。TestFlight 1.0 (24) までの再現は右だった。stand-turtle.png は甲羅の形（縦横比・傾き）の基準にはなるが、側の基準にはしない（側は主な絵・モード切り替えの絵・Home の絵）。大きさと模様は 2026-10-17 の「甲羅大きめ＋模様強調」で、「立つ」より大きく、模様の線を太く・濃くした。comparison.png の亀の重ね合わせで、甲羅が原画の「立つ」より大きいのはこのため。
 
 ## H2 の画面見本（ワイヤーフレーム。2026-10-16）
 
